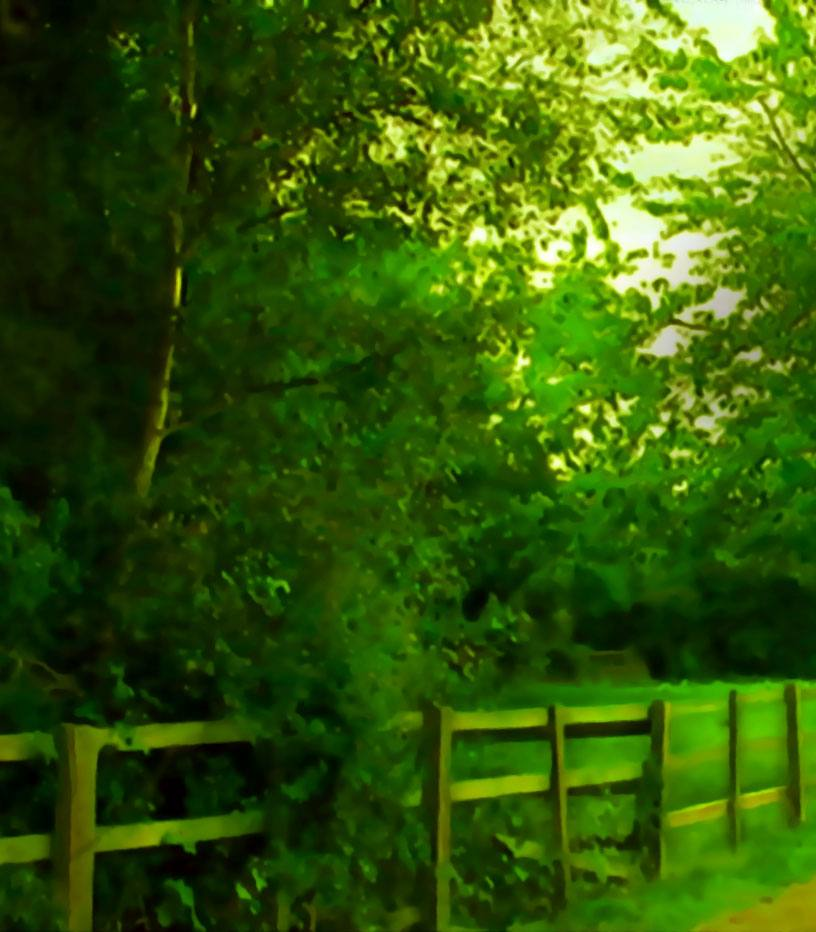
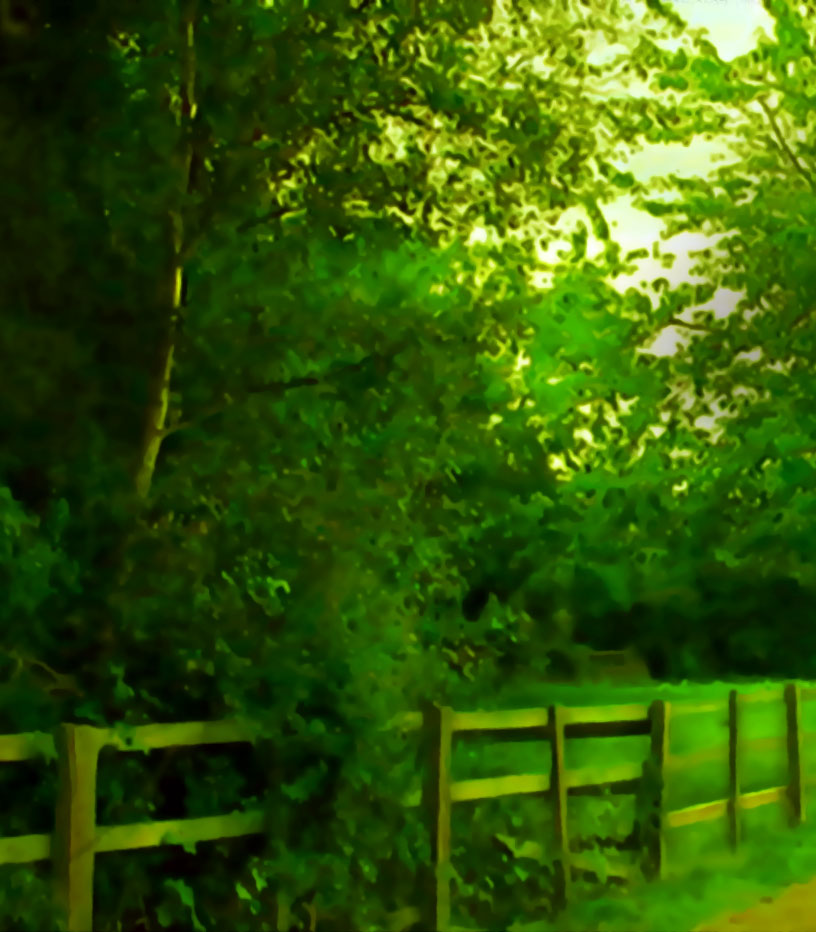
more

diff --git a/lesson10/js/weatherapi.js b/lesson10/js/weatherapi.js
@@ -4,22 +4,59 @@
 /* Fish Haven: 5585010  */
 
 const bodyClasses = document.body.classList;
-console.log(bodyClasses);
-if(bodyClasses.contains("preston") || bodyClasses.contains("apiTest")) {
+
+
+if(bodyClasses.contains("apiTest")) {
+    var page = "apiTest";
     var requestURL = "https://api.openweathermap.org/data/2.5/weather?id=5604473&appid=ee95bdb22401d075cd5b22ae078a154f";
-} else if(bodyClasses.contains("sodaSprings")) {
+}else if(bodyClasses.contains("preston") ) { 
+    var page = "preston";
+    var requestURL = "https://api.openweathermap.org/data/2.5/weather?id=5604473&appid=ee95bdb22401d075cd5b22ae078a154f";
+}else if(bodyClasses.contains("sodaSprings")) {
+    var page = "sodaSprings";
     var requestURL = "https://api.openweathermap.org/data/2.5/weather?id=5607916&appid=ee95bdb22401d075cd5b22ae078a154f";
 } else if(bodyClasses.contains("fishHaven")) {
+    var page = "fishHaven";
     var requestURL = "https://api.openweathermap.org/data/2.5/weather?id=5585010&appid=ee95bdb22401d075cd5b22ae078a154f";
 }
-console.log(requestURL);
+
 fetch(requestURL)
     .then(function (response) {
         return response.json();
     })
     .then((jsObject) => {
         console.log(jsObject);
-        document.getElementById('current-temp').textContent = jsObject.main.temp;    
-        document.getElementById('icon').src = `https://openweathermap.org/img/w/${jsObject.weather[0].icon}.png`;
-        document.getElementById('icon').alt = jsObject.weather[0].description;
+        switch(page){
+            case "apiTest":
+                document.getElementById('current-temp').textContent = jsObject.main.temp;    
+                document.getElementById('icon').src = `https://openweathermap.org/img/w/${jsObject.weather[0].icon}.png`;
+                document.getElementById('icon').alt = jsObject.weather[0].description;
+                break;
+            default:
+                document.getElementById('current').textContent = jsObject.weather[0].description;    
+                document.getElementById('icon').src = `https://openweathermap.org/img/w/${jsObject.weather[0].icon}.png`;
+                document.getElementById('icon').alt = jsObject.weather[0].description;                
+                document.getElementById('temp').textContent = jsObject.main.temp;
+                document.getElementById('humidity').textContent = jsObject.main.humidity;
+                document.getElementById('wind-speed').textContent = jsObject.wind.speed;
+        }
     });
+/*
+    feels_like: 268.21
+humidity: 92
+pressure: 1025
+temp: 271.84
+temp_max: 274.26
+temp_min: 269.26
+__proto__: Object
+name: "Preston"
+sys: {type: 1, id: 4701, country: "US", sunrise: 1605622860, sunset: 1605657871}
+timezone: -25200
+visibility: 4828
+weather: [{…}]
+wind:
+deg: 74
+speed: 1.88
+__proto__: Object
+__proto__: Object
+*/

diff --git a/lesson10/preston-10.html b/lesson10/preston-10.html
@@ -50,20 +50,21 @@
         <section class="hero-box">
             <picture>
                 <source media="(max-width:600px)"
-                    srcset="images/lesson6x600.jpg">
+                    srcset="images/prestonsm.jpg">
                 <source media="(max-width: 1026px) and (min-width: 601px)"
-                    srcset="images/lesson6x1026.jpg">
-                <img src="images/lesson6x1500.jpg"
+                    srcset="images/prestonsm.jpg">
+                <img src="images/preston.jpg"
                     alt="Sunny landscape picture">
             </picture>
             <div class="weather-summary">
                 <h3>Weather Summary</h3>
                 <ul>
                     <li>Currently: <span id="current">Unknown</span></li>
-                    <li>Temp: <span id="temp">Unknown</span>&deg;F</li>
+                    <li><img src="" alt="" id="icon" /></li>
+                    <li>Temp: <span id="temp">Unknown</span></li>
                     <li>Wind Chill: <span id="wind-chill">Unknown</span></li>
-                    <li>Humidity: <span id="humidity">Unknown</span>%</li>
-                    <li>Wind Speed: <span id="wind-speed">Unknown</span>mph
+                    <li>Humidity: <span id="humidity">Unknown</span></li>
+                    <li>Wind Speed: <span id="wind-speed">Unknown</span>
                     </li>
                 </ul>
             </div>
@@ -184,11 +185,6 @@
                             the shape it possesses today.
                         </p>
                     </div>
-                    <p><iframe
-                            src="https://www.google.com/maps/embed?pb=!1m14!1m8!1m3!1d133666.5814480094!2d-111.44980836243145!3d42.24345927218467!3m2!1i1024!2i768!4f13.1!3m3!1m2!1s0x0%3A0x1d3010f5785ac600!2sThe%20National%20Oregon%2FCalifornia%20Trail%20Center!5e0!3m2!1sen!2sus!4v1602973477339!5m2!1sen!2sus"
-                            width="600" height="450"
-                            style="border:0;" allowfullscreen=""
-                            aria-hidden="false" tabindex="0"></iframe></p>
                 </div>
             </article>
         </section>
@@ -231,11 +227,13 @@
         </div>
         <p><span id="modified"></span> &copy; | Erik Moffett</p>
     </footer>
-    <script src="js/windchill.js"></script>
     <script
         src="https://ajax.googleapis.com/ajax/libs/webfont/1.6.26/webfont.js">
-    </script>
+    </script>    
+    <script src="js/weatherapi.js"></script>  
     <script src="js/script.js"></script>
+    <script src="js/windchill.js"></script>      
+
 </body>
 
 </html>
